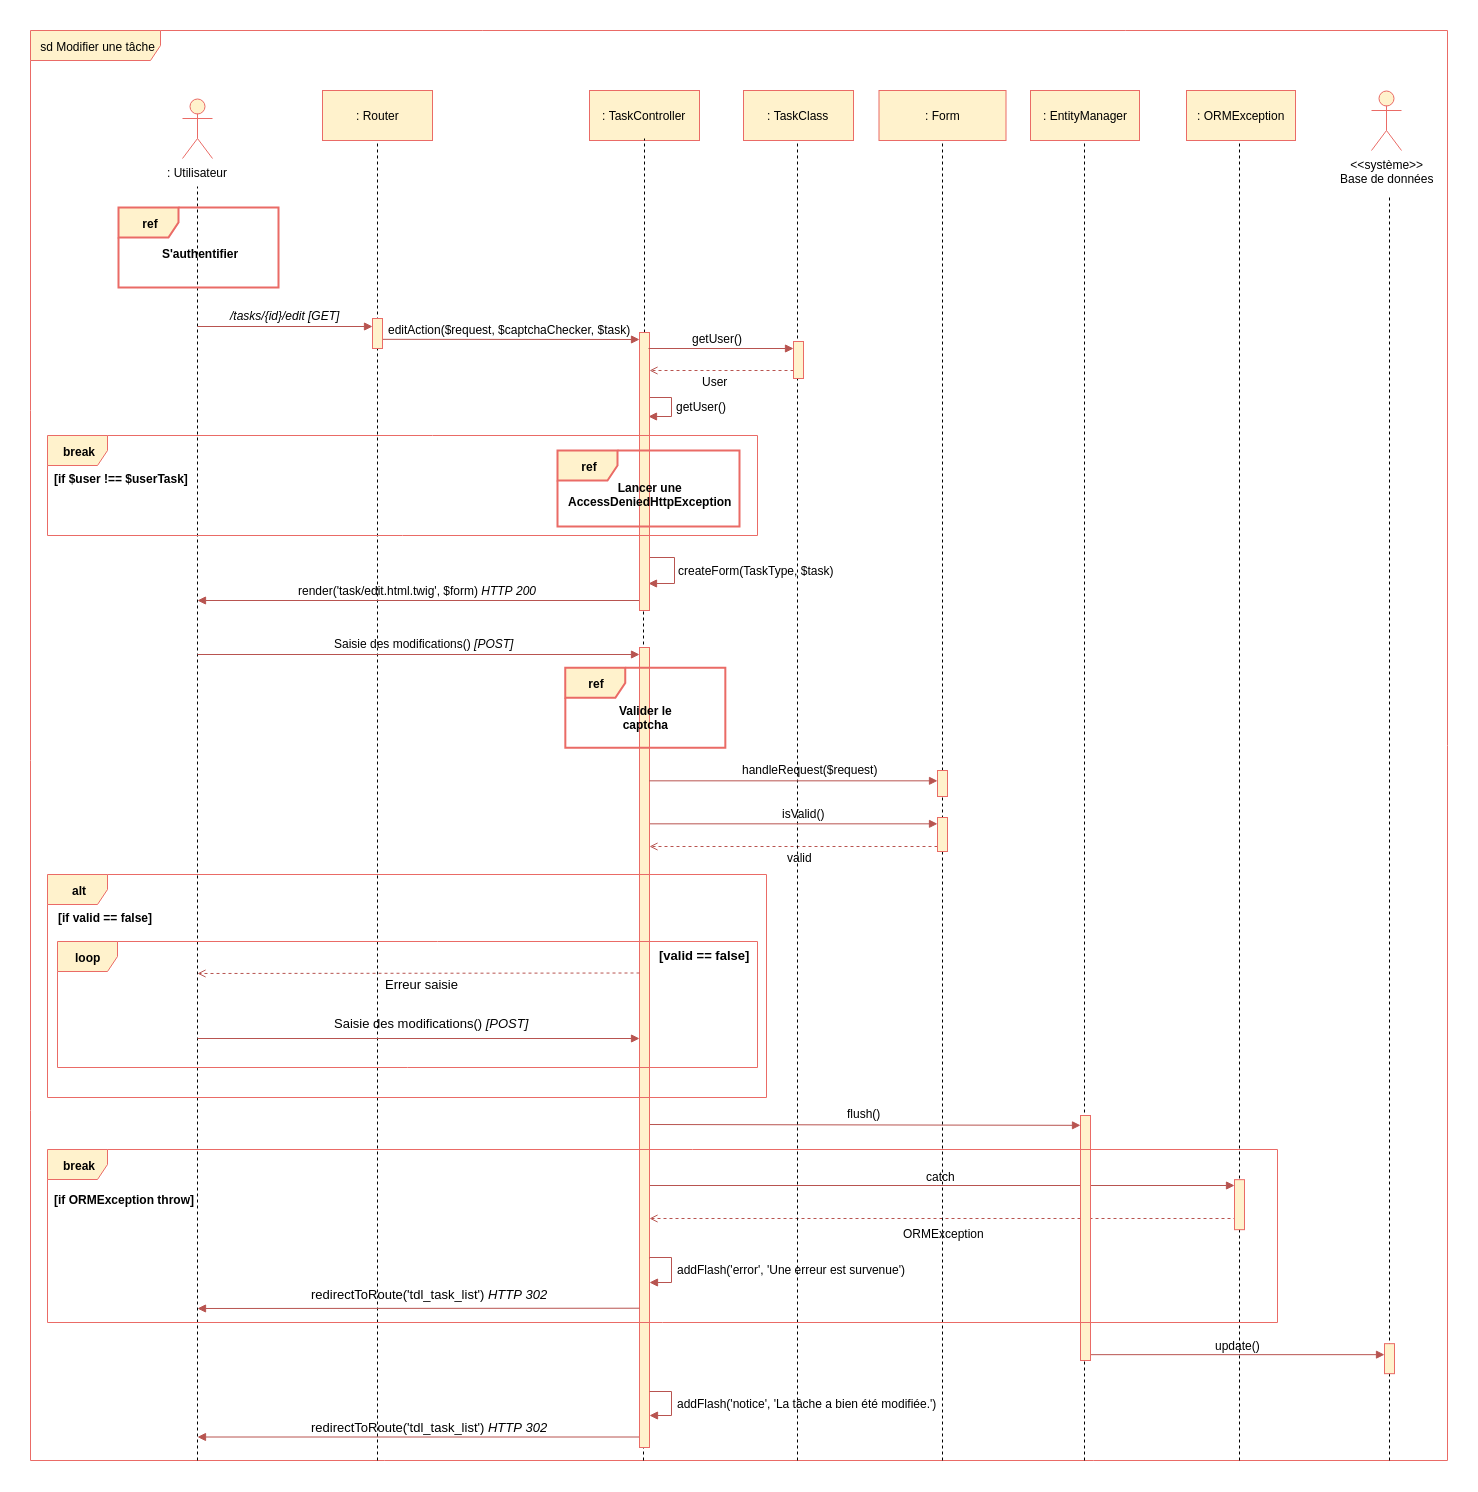
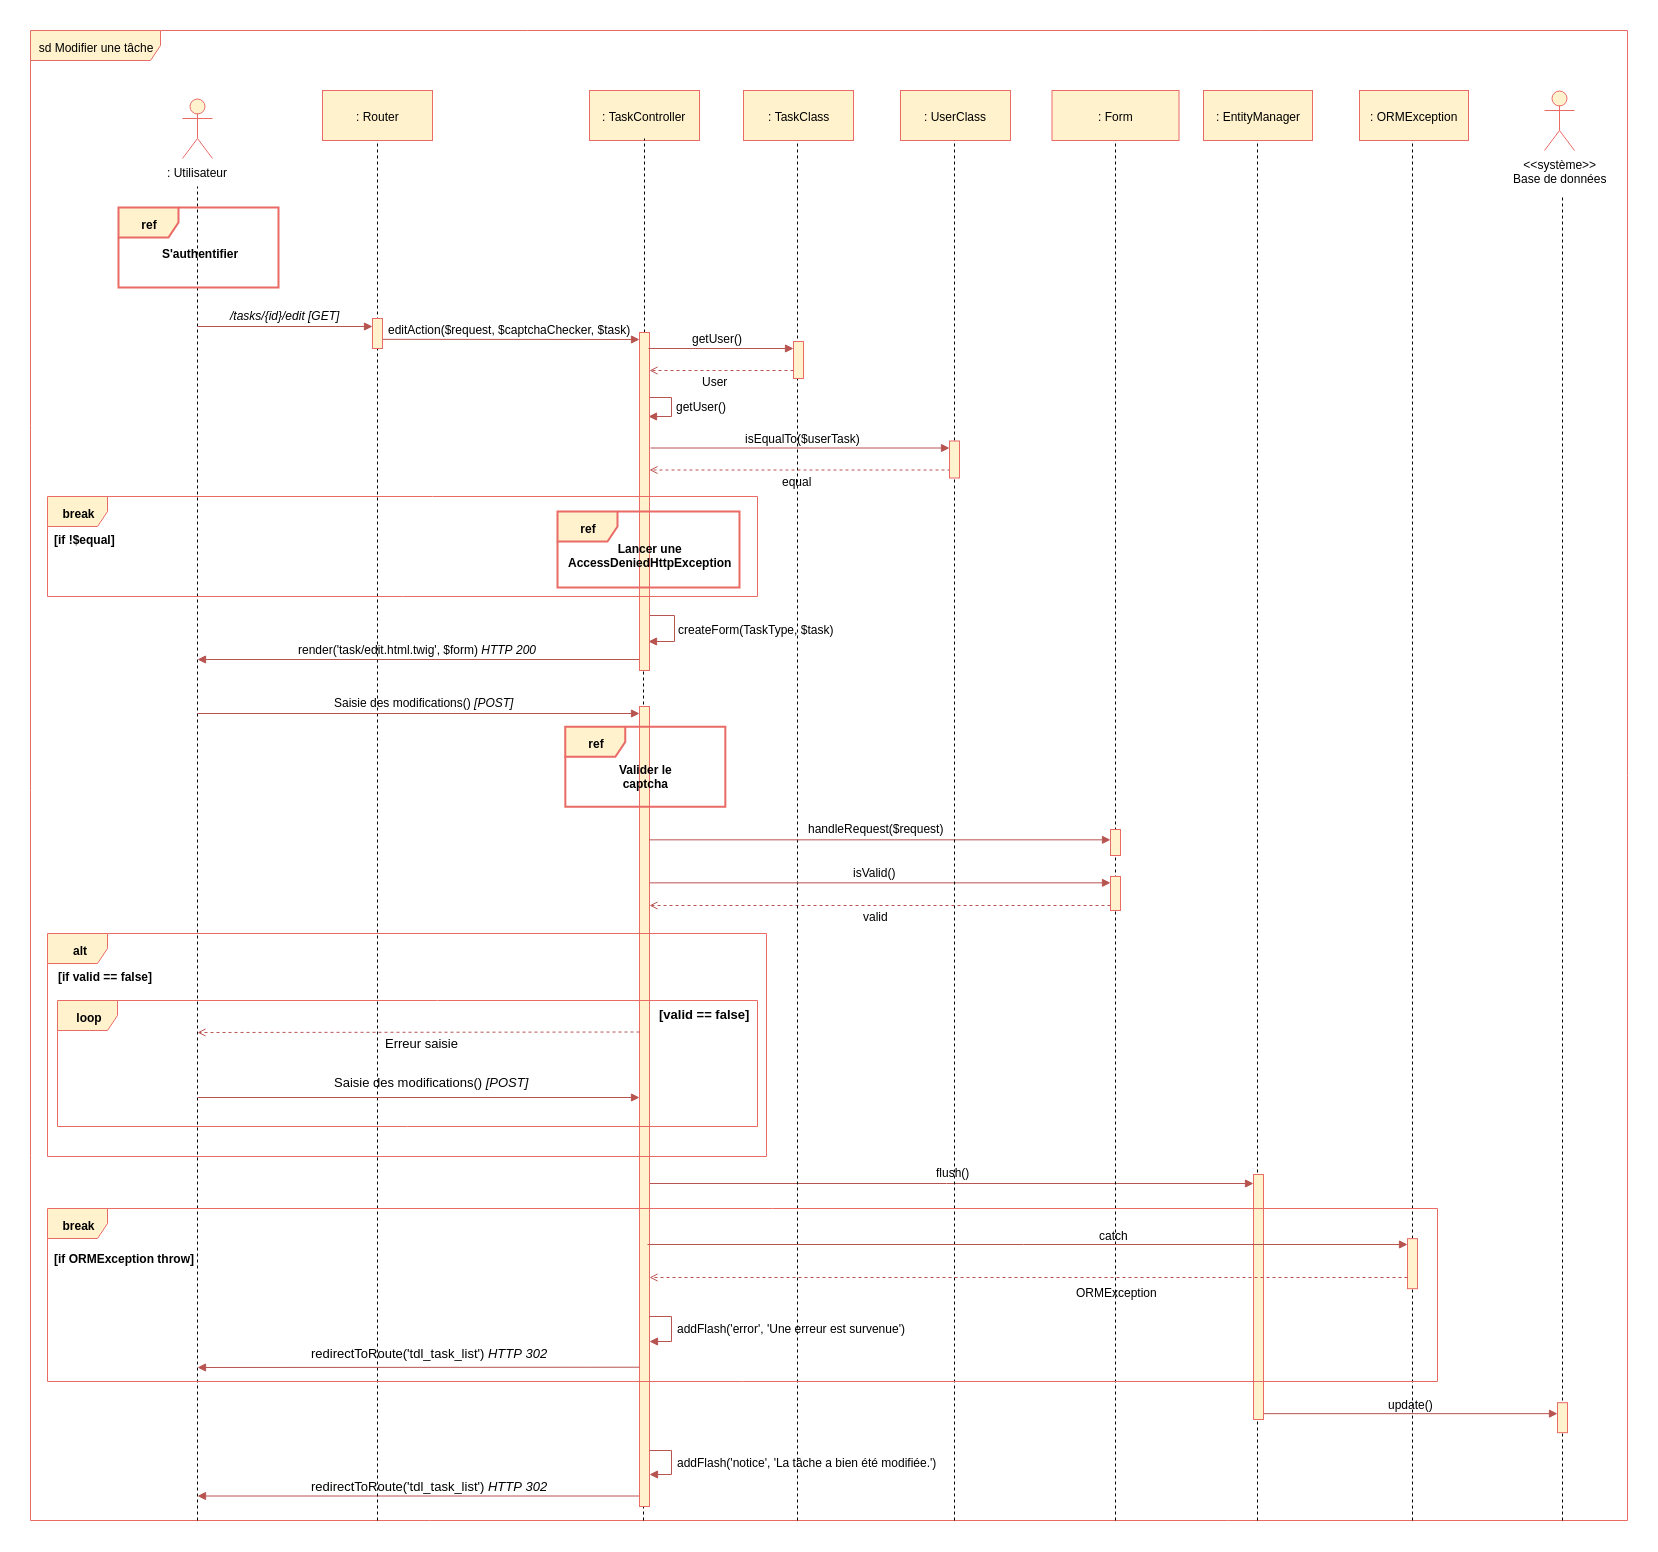
Update diagrams, update toggle and delete action (TaskController), for return a 403 response if the actual user is not the owner of the task.Update these two same action for add block try/catch on manager flush.Update UserFixtures, TaskFixtures.Update TaskControllerTest for test deleteAction, toggle

diff --git a/tests/AppBundle/Controller/TaskControllerTest.php b/tests/AppBundle/Controller/TaskControllerTest.php
@@ -38,7 +38,7 @@ class TaskControllerTest extends WebTestCase
      */
     public function testAddTask(): void
     {
-        $this->logIn();
+        $this->logIn('main');
         $crawler = $this->client->request('GET', '/tasks/create');
 
         $form = $crawler->selectButton('Ajouter')->form();
@@ -75,7 +75,7 @@ class TaskControllerTest extends WebTestCase
         $taskBeforeEdit = $manager->getRepository(Task::class)->findOneByTitle('Need update');
         $url = '/tasks/' .$taskBeforeEdit->getId(). '/edit';
 
-        $this->logIn();
+        $this->logIn('main');
         $crawler = $this->client->request('GET', $url);
 
         $form = $crawler->selectButton('Modifier')->form();
@@ -111,7 +111,7 @@ class TaskControllerTest extends WebTestCase
      */
     public function testAddTaskkWithBadValues($title, $content, $result): void
     {
-        $this->logIn();
+        $this->logIn('main');
         $crawler = $this->client->request('GET', '/tasks/create');
 
         $form = $crawler->selectButton('Ajouter')->form();
@@ -139,7 +139,7 @@ class TaskControllerTest extends WebTestCase
         $task = $manager->getRepository(Task::class)->findOneByTitle('Best task');
         $url = '/tasks/' .$task->getId(). '/edit';
 
-        $this->logIn();
+        $this->logIn('main');
         $crawler = $this->client->request('GET', $url);
 
         $form = $crawler->selectButton('Modifier')->form();
@@ -189,19 +189,138 @@ class TaskControllerTest extends WebTestCase
     }
 
     /**
-     * Log user
-     * @access private
+     * Test user can't manage task if he is not the owner
+     * @access public
+     * @param string action
+     * @dataProvider UrlActionValues
+     * 
+     * @return void
+     */
+    public function testUserCantManageTaskIfHeIsNotTheOwner($action): void
+    {
+        $manager = $this->client->getContainer()->get('doctrine')->getManager();
+        $task = $manager->getRepository(Task::class)->findOneByTitle('Best task');
+
+        $url = '/tasks/' .$task->getId(). '/' .$action;
+        $this->logIn('secondary');
+
+        $this->client->request('GET', $url);
+        $response = $this->client->getResponse();
+
+        $this->assertEquals(403, $response->getStatusCode());
+    }
+
+    /**
+     * Url action of Tasks
+     * @access public
+     *
+     * @return array
+     */
+    public function UrlActionValues()
+    {
+        return [
+            [
+                'edit'
+            ],
+            [
+                'toggle'
+            ],
+            [
+                'delete'
+            ]
+        ];
+    }
+
+    /**
+     * Test delete Task
+     * @access public
      *
      * @return void
      */
-    private function logIn(): void
+    public function testDeleteTask(): void
+    {
+        $manager = $this->client->getContainer()->get('doctrine')->getManager();
+        $task = $manager->getRepository(Task::class)->findOneByTitle('Delete me');
+        $url = '/tasks/' .$task->getId(). '/delete';
+
+        $this->logIn('main');
+
+        $this->client->request('GET', $url);
+        $crawler = $this->client->followRedirect();
+
+        $this->assertEquals(1, $crawler->filter('div.alert-success')->count());
+
+        $this->client->request('GET', $url);
+        $response = $this->client->getResponse();
+
+        $this->assertEquals(404, $response->getStatusCode());
+    }
+
+    /**
+     * Test toggle Task
+     * @access public
+     *
+     * @return void
+     */
+    public function testToggleTask(): void
+    {
+        $manager = $this->client->getContainer()->get('doctrine')->getManager();
+        $task = $manager->getRepository(Task::class)->findOneByTitle('Toggle me');
+        $url = '/tasks/' .$task->getId(). '/toggle';
+
+        $this->logIn('main');
+
+        $this->client->request('GET', $url);
+        $crawler = $this->client->followRedirect();
+
+        $this->assertEquals(1, $crawler->filter('div.alert-success')->count());
+
+        $toggleTask = $manager->getRepository(Task::class)->findOneByTitle('Toggle me');
+
+        $this->assertTrue($toggleTask->isDone());
+    }
+
+    /**
+     * Test 
+     * @access public
+     * @param string action
+     * @dataProvider UrlActionValues
+     * 
+     * @return void
+     */
+    public function testUrlWithBadParam($action): void
+    {
+        $url = '/tasks/fdfd/' .$action;
+        $this->logIn('main');
+
+        $this->client->request('GET', $url);
+        $response = $this->client->getResponse();
+
+        $this->assertEquals(404, $response->getStatusCode());
+    }
+
+    /**
+     * Log user
+     * @access private
+     * @param string $userRole
+     *
+     * @return void
+     */
+    private function logIn($userRole): void
     {
         $session = $this->client->getContainer()->get('session');
 
         $firewallName = 'main';
         $firewallContext = 'main';
-        $manager = $this->client->getContainer()->get('doctrine')->getManager(); 
-        $user = $manager->getRepository('AppBundle:User')->findOneByUsername('BryanTest'); 
+        $manager = $this->client->getContainer()->get('doctrine')->getManager();
+
+        if ($userRole == 'main') {
+            $user = $manager->getRepository('AppBundle:User')->findOneByUsername('BryanTest'); 
+        }
+
+        if ($userRole == 'secondary') {
+            $user = $manager->getRepository('AppBundle:User')->findOneByUsername('JeanTest'); 
+        }
 
         $token = new UsernamePasswordToken($user, $user->getPassword(), $firewallName, $user->getRoles());
         $session->set('_security_'.$firewallContext, serialize($token));

diff --git a/src/AppBundle/Controller/TaskController.php b/src/AppBundle/Controller/TaskController.php
@@ -70,7 +70,7 @@ class TaskController extends Controller
      * @param Task $task
      * @param Request $request
      * @param CaptchaChecker $captchaChecker
-     * @Route("/tasks/{id}/edit", name="tdl_task_edit")
+     * @Route("/tasks/{id}/edit", name="tdl_task_edit", requirements={"id"="\d+"})
      * 
      * @return Response|RedirectResponse
      */
@@ -98,28 +98,54 @@ class TaskController extends Controller
     }
 
     /**
-     * @Route("/tasks/{id}/toggle", name="task_toggle")
+     * Toggle Task
+     * @access public
+     * @param Task $task
+     * @Route("/tasks/{id}/toggle", name="tdl_task_toggle", requirements={"id"="\d+"})
+     * 
+     * @return RedirectResponse
      */
-    public function toggleTaskAction(Task $task)
+    public function toggleTaskAction(Task $task): RedirectResponse
     {
-        $task->toggle(!$task->isDone());
-        $this->getDoctrine()->getManager()->flush();
+        if (!$this->getUser()->isEqualTo($task->getUser())) {
+            throw new AccessDeniedHttpException();
+        }
 
-        $this->addFlash('success', sprintf('La tâche %s a bien été marquée comme faite.', $task->getTitle()));
+        $task->toggle(!$task->isDone());
+
+        try {
+            $this->getDoctrine()->getManager()->flush();
+            $this->addFlash('success', sprintf('La tâche %s a bien été marquée comme faite.', $task->getTitle()));
+        } catch(ORMException $exception) {
+            $this->addFlash('error', 'Une erreur est survenue.');
+        }
 
         return $this->redirectToRoute('task_list');
     }
 
     /**
-     * @Route("/tasks/{id}/delete", name="task_delete")
+     * Delete Task
+     * @access public
+     * @param Task $task
+     * @Route("/tasks/{id}/delete", name="tdl_task_delete", requirements={"id"="\d+"})
+     * 
+     * @return RedirectResponse
      */
-    public function deleteTaskAction(Task $task)
+    public function deleteAction(Task $task): RedirectResponse
     {
-        $em = $this->getDoctrine()->getManager();
-        $em->remove($task);
-        $em->flush();
+        if (!$this->getUser()->isEqualTo($task->getUser())) {
+            throw new AccessDeniedHttpException();
+        }
 
-        $this->addFlash('success', 'La tâche a bien été supprimée.');
+        $manager = $this->getDoctrine()->getManager();
+        $manager->remove($task);
+
+        try {
+            $manager->flush();
+            $this->addFlash('success', 'La tâche a bien été supprimée.');
+        } catch(ORMException $exception) {
+            $this->addFlash('error', 'Une erreur est survenue.');
+        }
 
         return $this->redirectToRoute('task_list');
     }

diff --git a/src/AppBundle/DataFixtures/UserFixtures.php b/src/AppBundle/DataFixtures/UserFixtures.php
@@ -21,6 +21,11 @@ class UserFixtures extends Fixture
     const MAIN_USER_TEST_REFERENCE = 'main-user-test-reference';
 
     /**
+     * @var public
+     */
+    const SECONDARY_USER_TEST_REFERENCE = 'secondary-user-test-reference';
+
+    /**
      * Load fixtures
      * @access public
      * @param ObjectManager $manager
@@ -34,9 +39,16 @@ class UserFixtures extends Fixture
         $mainUser->setPassword('goodpassword');
         $mainUser->setEmail('goodemail@yahoo.com');
 
+        $secondaryUser = new User;
+        $secondaryUser->setUsername('JeanTest');
+        $secondaryUser->setPassword('goodpass');
+        $secondaryUser->setEmail('goodemail@gmail.com');
+
         $manager->persist($mainUser);
+        $manager->persist($secondaryUser);
         $manager->flush();
 
         $this->addReference(self::MAIN_USER_TEST_REFERENCE, $mainUser);
+        $this->addReference(self::SECONDARY_USER_TEST_REFERENCE, $secondaryUser);
     }
 }

diff --git a/src/AppBundle/DataFixtures/TaskFixtures.php b/src/AppBundle/DataFixtures/TaskFixtures.php
@@ -36,8 +36,20 @@ class TaskFixtures extends Fixture implements DependentFixtureInterface
         $taskBadValues->setContent('Best content');
         $taskBadValues->setUser($this->getReference(UserFixtures::MAIN_USER_TEST_REFERENCE));
 
+        $taskForToggle = new Task;
+        $taskForToggle->setTitle('Toggle me');
+        $taskForToggle->setContent('Toggle');
+        $taskForToggle->setUser($this->getReference(UserFixtures::MAIN_USER_TEST_REFERENCE));
+
+        $taskForDelete = new Task;
+        $taskForDelete->setTitle('Delete me');
+        $taskForDelete->setContent('Delete');
+        $taskForDelete->setUser($this->getReference(UserFixtures::MAIN_USER_TEST_REFERENCE));
+
         $manager->persist($taskForUpdate);
         $manager->persist($taskBadValues);
+        $manager->persist($taskForToggle);
+        $manager->persist($taskForDelete);
         $manager->flush();
     }
 
